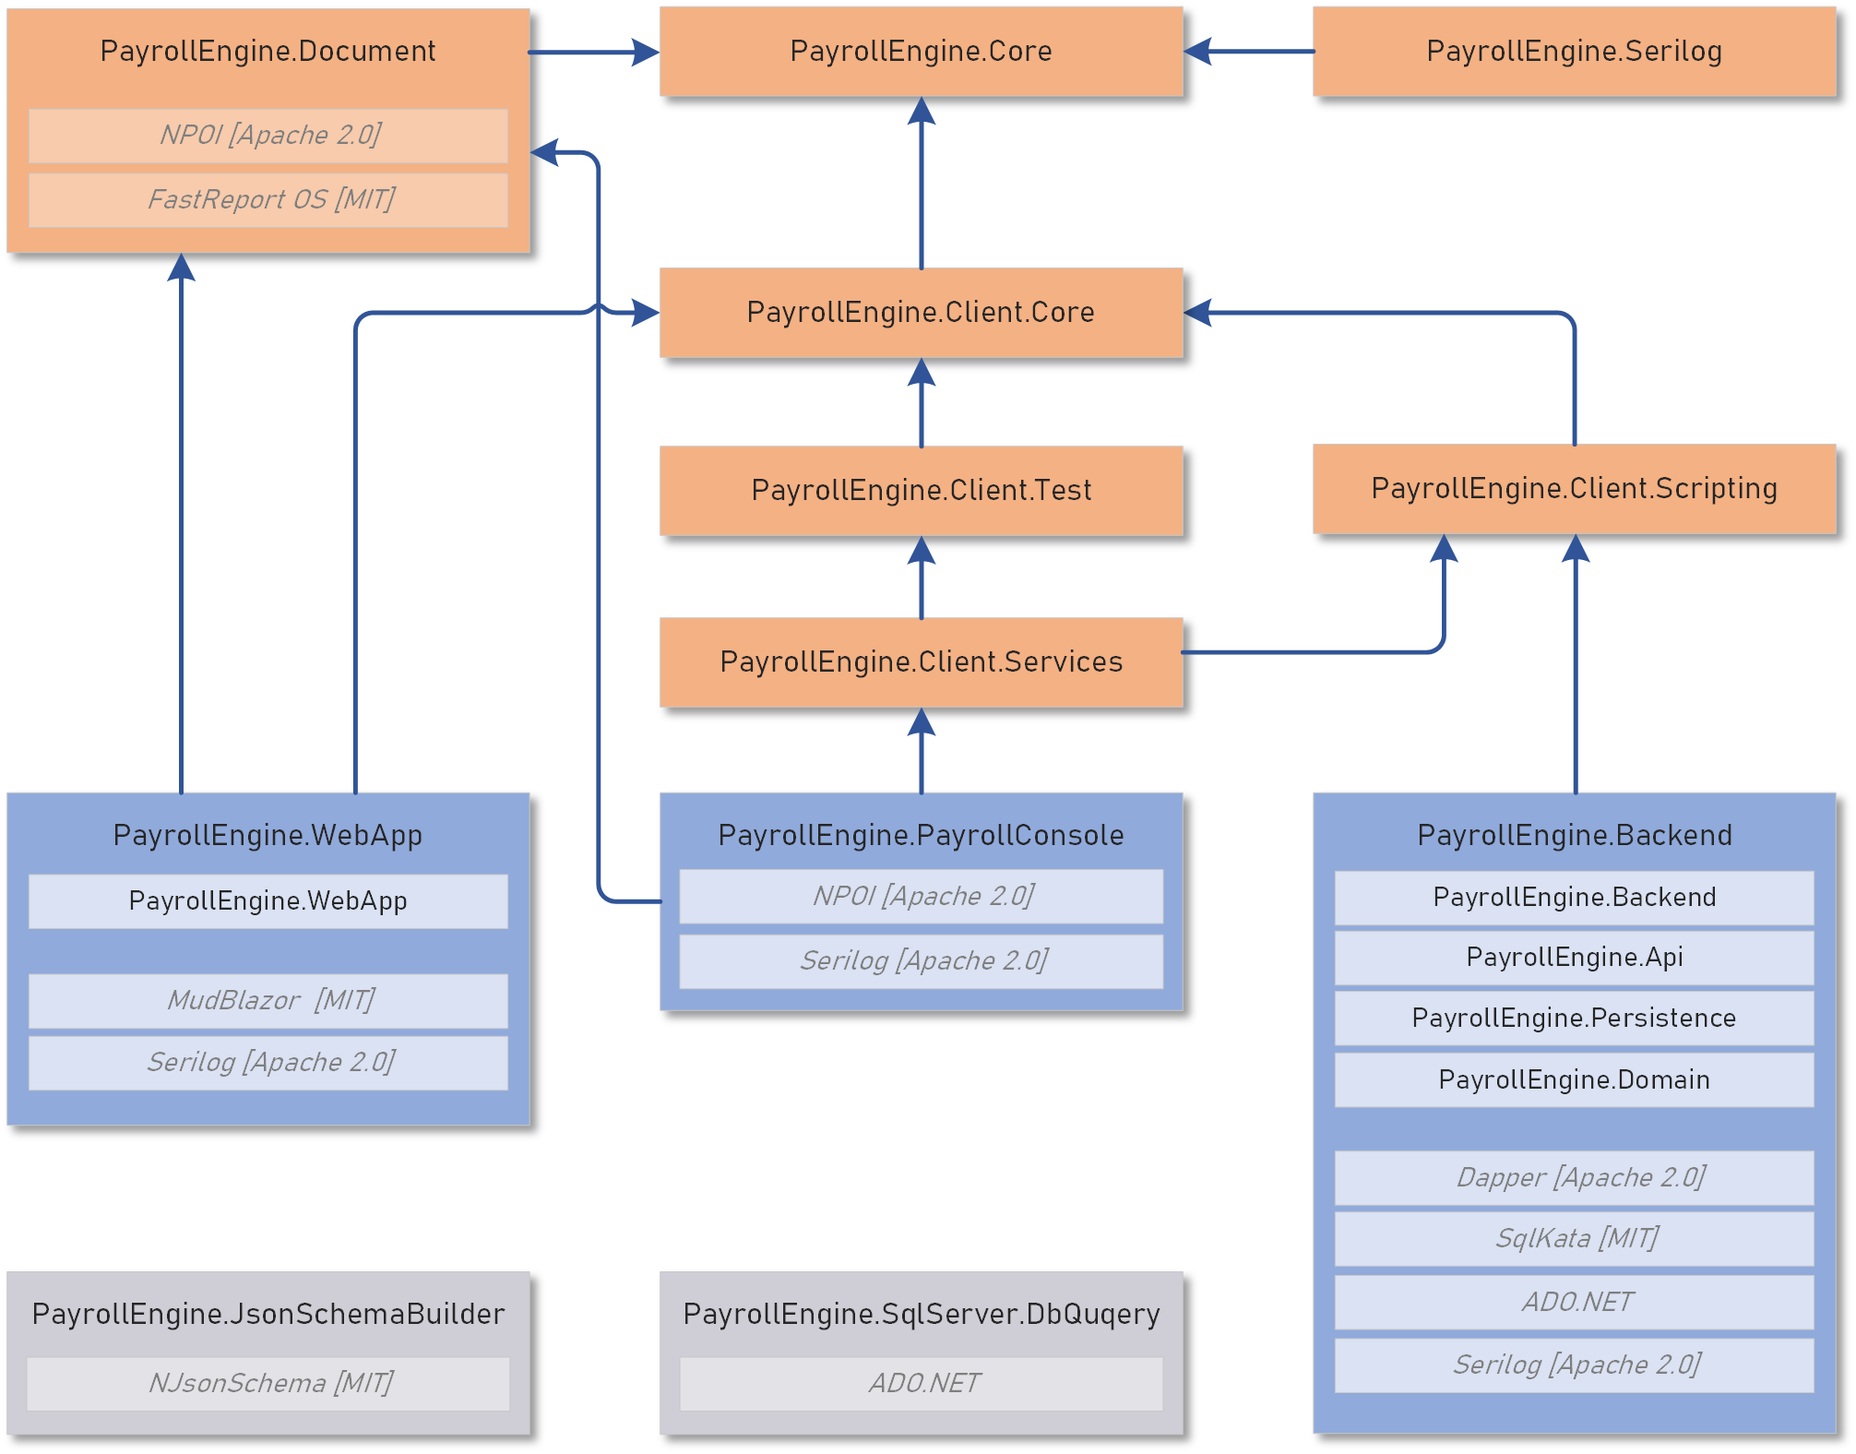
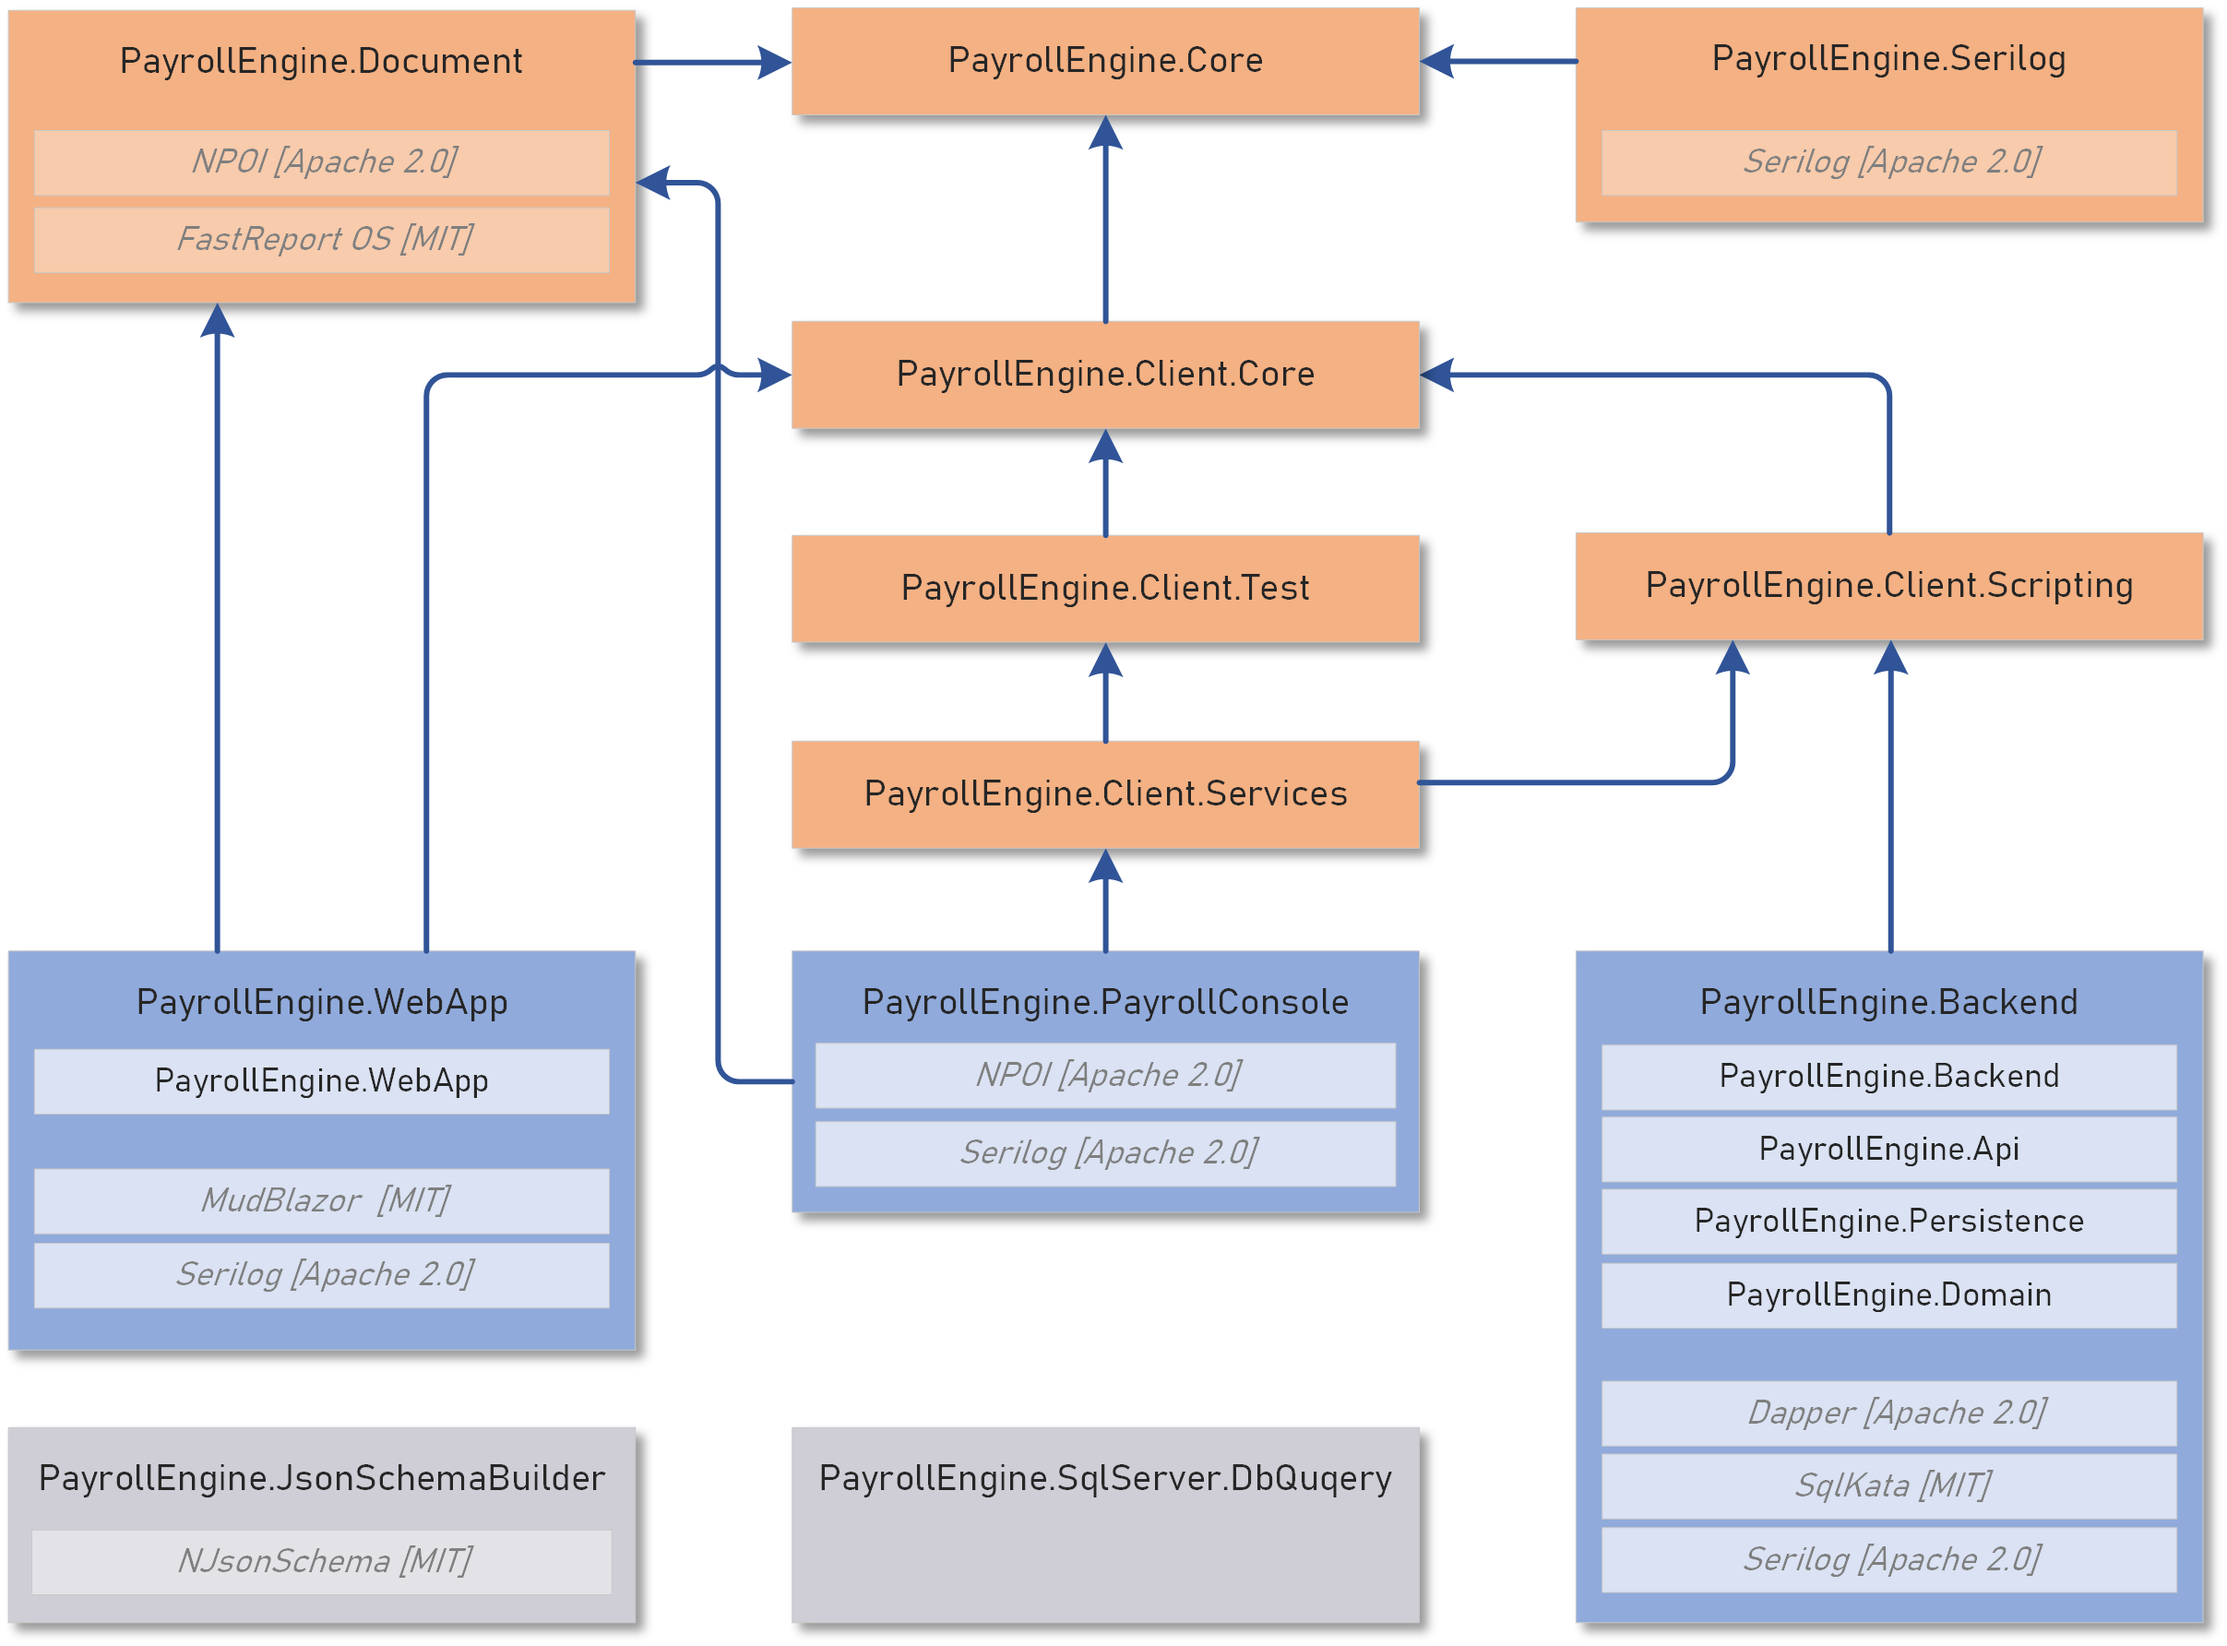
renamed app start batches added Repositories.md publish batches: added cleanup

diff --git a/Documents/Repositories.md b/Documents/Repositories.md
@@ -1,0 +1,32 @@
+<h1>Payroll Engine GitHub Repsitories</h1>
+
+# System Repositories
+
+Die Payroll Engine besteht aus folgenden System Repositories:
+<p>
+  <img src="Images/RepositoryMap.png" width="700px" alt="Payroll Engine Client Services">
+</p>
+
+| Repository                          | Content                     | URL                                                                   | Third Party |
+|--|--|--|--|
+| *PayrollEngine*                     | Main repository             | https://github.com/Payroll-Engine/PayrollEngine.git                   |             |
+| *PayrollEngine.Core*                | Core payroll objects        | https://github.com/Payroll-Engine/PayrollEngine.Core.git              |             |
+| *PayrollEngine.Serilog*             | System logger               | https://github.com/Payroll-Engine/PayrollEngine.Serilog.git           | - [Serilog](https://serilog.net/) [Apache 2.0] |
+| *PayrollEngine.Document*            | Document/Report generation  | https://github.com/Payroll-Engine/PayrollEngine.Document.git          | - [NPOI](https://github.com/dotnetcore/NPOI) [Apache 2.0]<br />- [FastReport](https://github.com/FastReports/FastReport) [MIT] |
+| *PayrollEngine.Client.Core*         | Client core payroll objects | https://github.com/Payroll-Engine/PayrollEngine.Client.Core.git       |             |
+| *PayrollEngine.Test*                | Client test library         | https://github.com/Payroll-Engine/PayrollEngine.Client.Test.git       |             |
+| *PayrollEngine.Client.Scripting*    | Client scripting            | https://github.com/Payroll-Engine/PayrollEngine.Client.Scripting.git  |             |
+| *PayrollEngine.Client.Services*     | Main client services        | https://github.com/Payroll-Engine/PayrollEngine.Client.Services.git   |             |
+| *PayrollEngine.Backend*             | Backend server              | https://github.com/Payroll-Engine/PayrollEngine.Backend.git           | - [Dapper](https://github.com/DapperLib/Dapper) [Apache 2.0]<br />- [SqlKata](https://github.com/sqlkata/querybuilder) [MIT]<br />- [Serilog](https://serilog.net/) [Apache 2.0] |
+| *PayrollEngine.PayrollConsole*      | Console application         | https://github.com/Payroll-Engine/PayrollEngine.PayrollConsole.git    |             |
+| *PayrollEngine.WebApp*              | Web application             | https://github.com/Payroll-Engine/PayrollEngine.WebApp.git            |             |
+<br/>
+
+## Tools
+| *PayrollEngine.JsonSchemBuilder*    | JSON schema generation      | https://github.com/Payroll-Engine/PayrollEngine.JsonSchemaBuilder.git | [NJSonSchema](https://github.com/RicoSuter/NJsonSchema) [MIT] |
+| *PayrollEngine.WebApp*              | Excecute SQL Server queries | https://github.com/Payroll-Engine/PayrollEngine.SqlServer.DbQuery.git |             |
+
+
+# Regulation Repositories
+
+| *PayrollEngine.CH.Swissdec*         | Swissdec ELM5 payroll       | https://github.com/Payroll-Engine/Regulation.CH.Swissdec.git          |             |

diff --git a/README.md b/README.md
@@ -20,13 +20,13 @@ The Payroll Engine offers the following features:
 | Multi-Country                | Execute payroll in different countries    |
 | Multi-Tenancy                | Host multiple tenants                     |
 | Company Divisions            | Different payrolls within a company       |
-| Multi-Payrun                 | Run multiple payruns in a wage period     |
+| Multi-Payrun                 | Run multiple payruns in a payroll period  |
 | Forecasts                    | Future payroll simulation                 |
 | Case driven model            | Dynamic input workflow                    |
 | Time values                  | View and enter past/future data           |
 | Case Actions                 | No-Code case control                      |
 | [Regulations](Regulation.md) | Component based payroll layers            |
-| Automated Testing            | Payroll Tests over multiple wage periods  |
+| Automated Testing            | Payroll Tests over multiple periods       |
 | Embedded payroll             | Integration to your service through REST  |
 | Scripting API                | Programming the payroll runtime behaviour |
 | Open Source                  | Free for private and commercial use       |
@@ -67,7 +67,7 @@ Three steps are necessary to use the Payroll Engine:
 # Resources
 | Resource                                                                               | Content                                           | Type           |
 |--|--|--|
-| [Repository Map](Documents/PayrollEngineRepositoryMap.pdf)                             | Overview of the Payroll Engine repositories       | Document       |
+| [Payroll Engine GitHub Repositories](Documents/Repositories.md)                               | Overview of the Payroll Engine repositories       | Document       |
 | [REST API Endpoints](Documents/PayrollRestServicesEndpoints.pdf)                       | Overview of the REST endpoints                    | Document       |
 | [Payroll Examples](https://github.com/Payroll-Engine/PayrollEngine/tree/main/Examples) | Payroll examples                                  | JSON/C# files  |
 | [Payroll Tests](https://github.com/Payroll-Engine/PayrollEngine/tree/main/Tests)       | Automated Payroll Tests                           | JSON/C# files  |

diff --git a/Documents/Setup.md b/Documents/Setup.md
@@ -14,7 +14,7 @@ The following software components are required to operate the Payroll Engine:
 <br />
 
 ## 2 Clone Repositories
-The following repositories are to be cloned locally:
+The following [system repositories](Repositories.md) are to be cloned locally:
 | Repository                          | Content                     | URL |
 |--|--|--|
 | *PayrollEngine*                     | Main repository             | https://github.com/Payroll-Engine/PayrollEngine.git |
@@ -80,14 +80,19 @@ The setup generates NuGets in the ***PayrollEngine\Packages*** folder and applic
 ## 6 Start Backend Server
 The backend server is started with the batch ***PayrollEngine\Batches\Backend.Server.bat*** and a console window with the server log appears. With the batch ***PayrollEngine\Batches\Backend.Swagger.bat*** the Payroll Engine REST endpoints appear in the Swagger browser window.
 
-> The batch ***PayrollEngine\Batches\Test.Payruns.bat*** runs several engine tests. The tests are successful when the console window closes automatically.
+> Im Batchmodus läuft das Backend auf dem [Kestrel](https://learn.microsoft.com/en-us/aspnet/core/fundamentals/servers/kestrel) web server. Im Gegensatz dazu verwendet Visual Studio [IIS Express](https://learn.microsoft.com/en-us/iis/extensions/introduction-to-iis-express/iis-express-overview).
+
+<br />
+
+## 7 Backend Tests
+The batch ***PayrollEngine\Batches\Test.Payruns.bat*** runs several engine tests. The tests are successful when the console window closes automatically.
 
 <br />
 *Congrats, you are ready to build regulations :=)*
 
 <br />
 
-## 7 Next steps
+## Next steps
 The next steps are:
 - Introduction to the Payroll Engine (white paper)
 - Explore examples: Link
